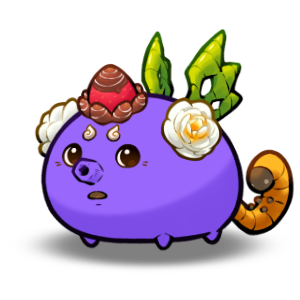
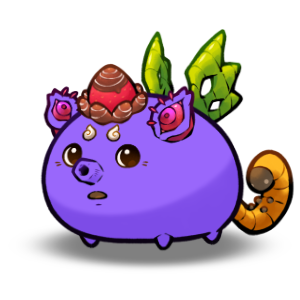
Atualizacao automatica de levels, morph e imagens
Claude-Session: https://claude.ai/code/session_01QYSzLAhex3EF8HQdWwvWVL

Changed region(s): [[0.48, 0.27, 0.75, 0.54], [0.12, 0.27, 0.27, 0.54]]

diff --git a/data.js b/data.js
@@ -10194,7 +10194,7 @@ const AXIE_DATA = [
     },
     "isMorphed": true,
     "morphParts": null,
[2 lines of base64/hex data omitted]
     "level": 60
   },
   {
@@ -18990,9 +18990,9 @@ const AXIE_DATA = [
     "genesisParts": {
       "Nightmare": 1
     },
-    "isMorphed": false,
+    "isMorphed": true,
     "morphParts": null,
-    "morphGenesHex": null,
[1 lines of base64/hex data omitted]
     "level": 60
   },
   {
